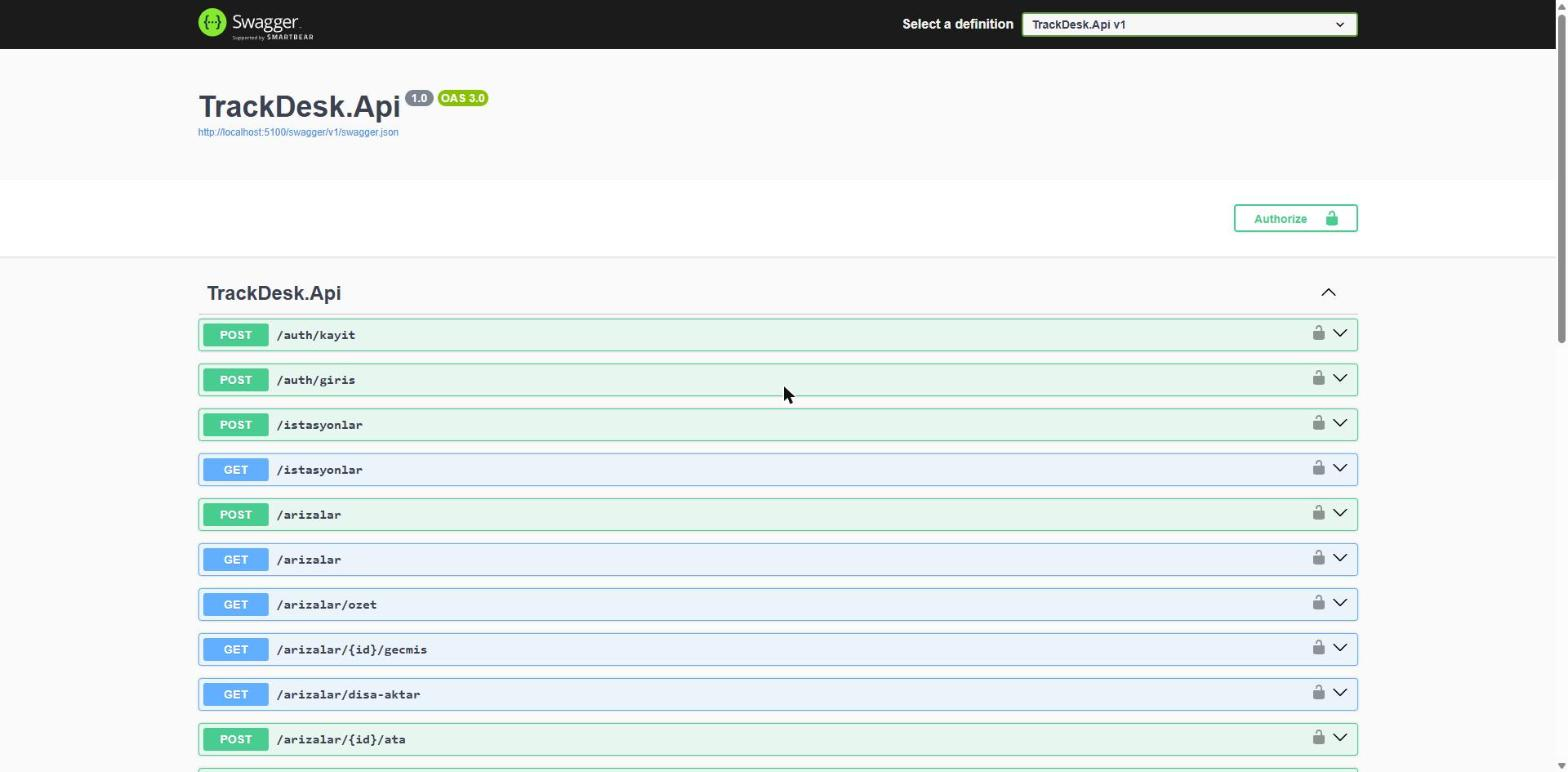
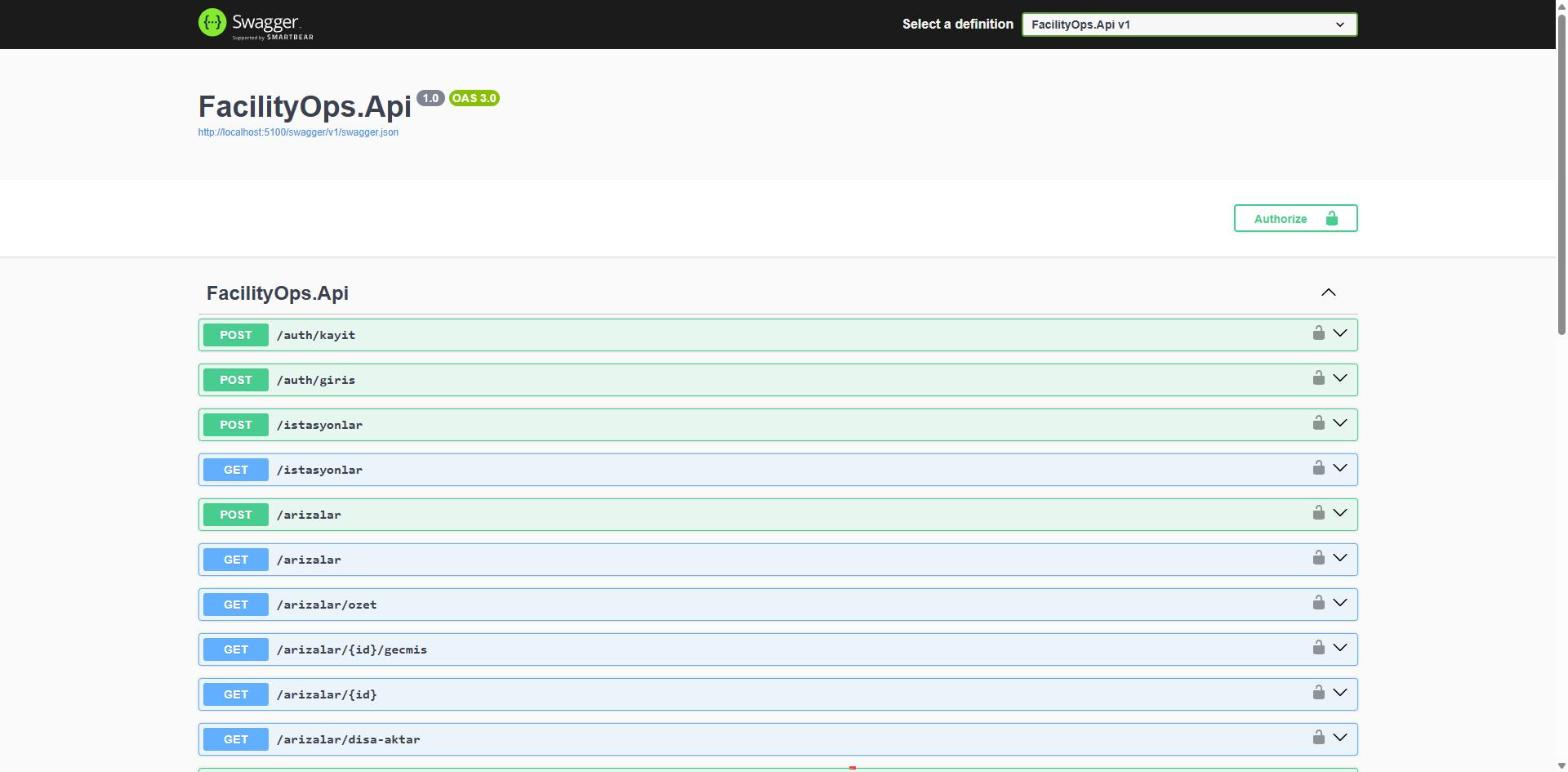
Proje adı FacilityOps olarak değiştirildi (#8)
Proje adı FacilityOps olarak değiştirildi; ad alanları, ekran görüntüleri ve README güncellendi. Filtrelerde kültürden bağımsız küçük harfe çevirme kullanıldı.

diff --git a/src/FacilityOps.Api/Data/Migrations/20261112061803_Baslangic.Designer.cs b/src/FacilityOps.Api/Data/Migrations/20261112061803_Baslangic.Designer.cs
@@ -2,22 +2,25 @@
 using System;
 using Microsoft.EntityFrameworkCore;
 using Microsoft.EntityFrameworkCore.Infrastructure;
+using Microsoft.EntityFrameworkCore.Migrations;
 using Microsoft.EntityFrameworkCore.Storage.ValueConversion;
-using TrackDesk.Api.Data;
+using FacilityOps.Api.Data;
 
 #nullable disable
 
-namespace TrackDesk.Api.Data.Migrations
+namespace FacilityOps.Api.Data.Migrations
 {
     [DbContext(typeof(AppDbContext))]
-    partial class AppDbContextModelSnapshot : ModelSnapshot
+    [Migration("20261112061803_Baslangic")]
+    partial class Baslangic
     {
-        protected override void BuildModel(ModelBuilder modelBuilder)
+        /// <inheritdoc />
+        protected override void BuildTargetModel(ModelBuilder modelBuilder)
         {
 #pragma warning disable 612, 618
             modelBuilder.HasAnnotation("ProductVersion", "8.0.11");
 
-            modelBuilder.Entity("TrackDesk.Api.Domain.ArizaGecmisi", b =>
+            modelBuilder.Entity("FacilityOps.Api.Domain.ArizaGecmisi", b =>
                 {
                     b.Property<int>("Id")
                         .ValueGeneratedOnAdd()
@@ -52,7 +55,7 @@ namespace TrackDesk.Api.Data.Migrations
                     b.ToTable("ArizaGecmisleri");
                 });
 
-            modelBuilder.Entity("TrackDesk.Api.Domain.ArizaKaydi", b =>
+            modelBuilder.Entity("FacilityOps.Api.Domain.ArizaKaydi", b =>
                 {
                     b.Property<int>("Id")
                         .ValueGeneratedOnAdd()
@@ -100,7 +103,7 @@ namespace TrackDesk.Api.Data.Migrations
                     b.ToTable("Arizalar");
                 });
 
-            modelBuilder.Entity("TrackDesk.Api.Domain.Istasyon", b =>
+            modelBuilder.Entity("FacilityOps.Api.Domain.Istasyon", b =>
                 {
                     b.Property<int>("Id")
                         .ValueGeneratedOnAdd()
@@ -121,7 +124,7 @@ namespace TrackDesk.Api.Data.Migrations
                     b.ToTable("Istasyonlar");
                 });
 
-            modelBuilder.Entity("TrackDesk.Api.Domain.Kullanici", b =>
+            modelBuilder.Entity("FacilityOps.Api.Domain.Kullanici", b =>
                 {
                     b.Property<int>("Id")
                         .ValueGeneratedOnAdd()
@@ -153,18 +156,18 @@ namespace TrackDesk.Api.Data.Migrations
                     b.ToTable("Kullanicilar");
                 });
 
-            modelBuilder.Entity("TrackDesk.Api.Domain.ArizaGecmisi", b =>
+            modelBuilder.Entity("FacilityOps.Api.Domain.ArizaGecmisi", b =>
                 {
-                    b.HasOne("TrackDesk.Api.Domain.ArizaKaydi", null)
+                    b.HasOne("FacilityOps.Api.Domain.ArizaKaydi", null)
                         .WithMany()
                         .HasForeignKey("ArizaId")
                         .OnDelete(DeleteBehavior.Cascade)
                         .IsRequired();
                 });
 
-            modelBuilder.Entity("TrackDesk.Api.Domain.ArizaKaydi", b =>
+            modelBuilder.Entity("FacilityOps.Api.Domain.ArizaKaydi", b =>
                 {
-                    b.HasOne("TrackDesk.Api.Domain.Istasyon", "Istasyon")
+                    b.HasOne("FacilityOps.Api.Domain.Istasyon", "Istasyon")
                         .WithMany("Arizalar")
                         .HasForeignKey("IstasyonId")
                         .OnDelete(DeleteBehavior.Restrict)
@@ -173,7 +176,7 @@ namespace TrackDesk.Api.Data.Migrations
                     b.Navigation("Istasyon");
                 });
 
-            modelBuilder.Entity("TrackDesk.Api.Domain.Istasyon", b =>
+            modelBuilder.Entity("FacilityOps.Api.Domain.Istasyon", b =>
                 {
                     b.Navigation("Arizalar");
                 });

diff --git a/src/FacilityOps.Api/Data/Migrations/AppDbContextModelSnapshot.cs b/src/FacilityOps.Api/Data/Migrations/AppDbContextModelSnapshot.cs
@@ -2,25 +2,22 @@
 using System;
 using Microsoft.EntityFrameworkCore;
 using Microsoft.EntityFrameworkCore.Infrastructure;
-using Microsoft.EntityFrameworkCore.Migrations;
 using Microsoft.EntityFrameworkCore.Storage.ValueConversion;
-using TrackDesk.Api.Data;
+using FacilityOps.Api.Data;
 
 #nullable disable
 
-namespace TrackDesk.Api.Data.Migrations
+namespace FacilityOps.Api.Data.Migrations
 {
     [DbContext(typeof(AppDbContext))]
-    [Migration("20261112061803_Baslangic")]
-    partial class Baslangic
+    partial class AppDbContextModelSnapshot : ModelSnapshot
     {
-        /// <inheritdoc />
-        protected override void BuildTargetModel(ModelBuilder modelBuilder)
+        protected override void BuildModel(ModelBuilder modelBuilder)
         {
 #pragma warning disable 612, 618
             modelBuilder.HasAnnotation("ProductVersion", "8.0.11");
 
-            modelBuilder.Entity("TrackDesk.Api.Domain.ArizaGecmisi", b =>
+            modelBuilder.Entity("FacilityOps.Api.Domain.ArizaGecmisi", b =>
                 {
                     b.Property<int>("Id")
                         .ValueGeneratedOnAdd()
@@ -55,7 +52,7 @@ namespace TrackDesk.Api.Data.Migrations
                     b.ToTable("ArizaGecmisleri");
                 });
 
-            modelBuilder.Entity("TrackDesk.Api.Domain.ArizaKaydi", b =>
+            modelBuilder.Entity("FacilityOps.Api.Domain.ArizaKaydi", b =>
                 {
                     b.Property<int>("Id")
                         .ValueGeneratedOnAdd()
@@ -103,7 +100,7 @@ namespace TrackDesk.Api.Data.Migrations
                     b.ToTable("Arizalar");
                 });
 
-            modelBuilder.Entity("TrackDesk.Api.Domain.Istasyon", b =>
+            modelBuilder.Entity("FacilityOps.Api.Domain.Istasyon", b =>
                 {
                     b.Property<int>("Id")
                         .ValueGeneratedOnAdd()
@@ -124,7 +121,7 @@ namespace TrackDesk.Api.Data.Migrations
                     b.ToTable("Istasyonlar");
                 });
 
-            modelBuilder.Entity("TrackDesk.Api.Domain.Kullanici", b =>
+            modelBuilder.Entity("FacilityOps.Api.Domain.Kullanici", b =>
                 {
                     b.Property<int>("Id")
                         .ValueGeneratedOnAdd()
@@ -156,18 +153,18 @@ namespace TrackDesk.Api.Data.Migrations
                     b.ToTable("Kullanicilar");
                 });
 
-            modelBuilder.Entity("TrackDesk.Api.Domain.ArizaGecmisi", b =>
+            modelBuilder.Entity("FacilityOps.Api.Domain.ArizaGecmisi", b =>
                 {
-                    b.HasOne("TrackDesk.Api.Domain.ArizaKaydi", null)
+                    b.HasOne("FacilityOps.Api.Domain.ArizaKaydi", null)
                         .WithMany()
                         .HasForeignKey("ArizaId")
                         .OnDelete(DeleteBehavior.Cascade)
                         .IsRequired();
                 });
 
-            modelBuilder.Entity("TrackDesk.Api.Domain.ArizaKaydi", b =>
+            modelBuilder.Entity("FacilityOps.Api.Domain.ArizaKaydi", b =>
                 {
-                    b.HasOne("TrackDesk.Api.Domain.Istasyon", "Istasyon")
+                    b.HasOne("FacilityOps.Api.Domain.Istasyon", "Istasyon")
                         .WithMany("Arizalar")
                         .HasForeignKey("IstasyonId")
                         .OnDelete(DeleteBehavior.Restrict)
@@ -176,7 +173,7 @@ namespace TrackDesk.Api.Data.Migrations
                     b.Navigation("Istasyon");
                 });
 
-            modelBuilder.Entity("TrackDesk.Api.Domain.Istasyon", b =>
+            modelBuilder.Entity("FacilityOps.Api.Domain.Istasyon", b =>
                 {
                     b.Navigation("Arizalar");
                 });

diff --git a/src/FacilityOps.Api/Services/ArizaService.cs b/src/FacilityOps.Api/Services/ArizaService.cs
@@ -1,9 +1,9 @@
 using System.Text;
 using Microsoft.EntityFrameworkCore;
-using TrackDesk.Api.Data;
-using TrackDesk.Api.Domain;
+using FacilityOps.Api.Data;
+using FacilityOps.Api.Domain;
 
-namespace TrackDesk.Api.Services;
+namespace FacilityOps.Api.Services;
 
 /// <summary>İş kurallarını (durum geçişleri, doğrulama, denetim kaydı) endpoint'lerden ayrı tutar; test edilebilir.</summary>
 public class ArizaService(AppDbContext db)
@@ -162,8 +162,8 @@ public class ArizaService(AppDbContext db)
                 ? sorgu.Where(a => a.Durum != ArizaDurumu.Kapandi && a.SlaSonTarih < simdi)
                 : sorgu.Where(a => a.Durum == ArizaDurumu.Kapandi || a.SlaSonTarih >= simdi);
         }
-        if (!string.IsNullOrWhiteSpace(atanan)) sorgu = sorgu.Where(a => a.AtananKisi != null && a.AtananKisi.ToLower() == atanan.Trim().ToLower());
-        if (!string.IsNullOrWhiteSpace(ara)) sorgu = sorgu.Where(a => a.Baslik.ToLower().Contains(ara.Trim().ToLower()));
+        if (!string.IsNullOrWhiteSpace(atanan)) sorgu = sorgu.Where(a => a.AtananKisi != null && a.AtananKisi.ToLower() == atanan.Trim().ToLowerInvariant());
+        if (!string.IsNullOrWhiteSpace(ara)) sorgu = sorgu.Where(a => a.Baslik.ToLower().Contains(ara.Trim().ToLowerInvariant()));
         return sorgu;
     }
 

diff --git a/src/FacilityOps.Api/Program.cs b/src/FacilityOps.Api/Program.cs
@@ -7,14 +7,14 @@ using Microsoft.AspNetCore.Mvc;
 using Microsoft.EntityFrameworkCore;
 using Microsoft.IdentityModel.Tokens;
 using Microsoft.OpenApi.Models;
-using TrackDesk.Api.Data;
-using TrackDesk.Api.Domain;
-using TrackDesk.Api.Services;
+using FacilityOps.Api.Data;
+using FacilityOps.Api.Domain;
+using FacilityOps.Api.Services;
 
 var builder = WebApplication.CreateBuilder(args);
 
 builder.Services.AddDbContext<AppDbContext>(o =>
-    o.UseSqlite(builder.Configuration.GetConnectionString("Default") ?? "Data Source=trackdesk.db"));
+    o.UseSqlite(builder.Configuration.GetConnectionString("Default") ?? "Data Source=facilityops.db"));
 builder.Services.AddScoped<ArizaService>();
 builder.Services.AddScoped<AuthService>();
 builder.Services.AddHealthChecks().AddDbContextCheck<AppDbContext>("veritabani");

diff --git a/tests/FacilityOps.Tests/ProxyHizSiniriApiTests.cs b/tests/FacilityOps.Tests/ProxyHizSiniriApiTests.cs
@@ -3,11 +3,11 @@ using System.Net.Http.Json;
 using Microsoft.AspNetCore.Hosting;
 using Microsoft.AspNetCore.Mvc.Testing;
 
-namespace TrackDesk.Tests;
+namespace FacilityOps.Tests;
 
 public class ProxyHizSiniriApiTests : IClassFixture<WebApplicationFactory<Program>>, IDisposable
 {
-    private readonly string _dbDosya = Path.Combine(Path.GetTempPath(), $"trackdesk-{Guid.NewGuid():N}.db");
+    private readonly string _dbDosya = Path.Combine(Path.GetTempPath(), $"facilityops-{Guid.NewGuid():N}.db");
     private readonly WebApplicationFactory<Program> _factory;
 
     public ProxyHizSiniriApiTests(WebApplicationFactory<Program> factory)

diff --git a/tests/FacilityOps.Tests/ArizaDetayApiTests.cs b/tests/FacilityOps.Tests/ArizaDetayApiTests.cs
@@ -5,11 +5,11 @@ using System.Text.Json;
 using Microsoft.AspNetCore.Hosting;
 using Microsoft.AspNetCore.Mvc.Testing;
 
-namespace TrackDesk.Tests;
+namespace FacilityOps.Tests;
 
 public class ArizaDetayApiTests : IClassFixture<WebApplicationFactory<Program>>, IDisposable
 {
-    private readonly string _dbDosya = Path.Combine(Path.GetTempPath(), $"trackdesk-{Guid.NewGuid():N}.db");
+    private readonly string _dbDosya = Path.Combine(Path.GetTempPath(), $"facilityops-{Guid.NewGuid():N}.db");
     private readonly WebApplicationFactory<Program> _factory;
 
     public ArizaDetayApiTests(WebApplicationFactory<Program> factory)

diff --git a/tests/FacilityOps.Tests/ApiTests.cs b/tests/FacilityOps.Tests/ApiTests.cs
@@ -4,11 +4,11 @@ using System.Net.Http.Json;
 using Microsoft.AspNetCore.Hosting;
 using Microsoft.AspNetCore.Mvc.Testing;
 
-namespace TrackDesk.Tests;
+namespace FacilityOps.Tests;
 
 public class ApiTests : IClassFixture<WebApplicationFactory<Program>>, IDisposable
 {
-    private readonly string _dbDosya = Path.Combine(Path.GetTempPath(), $"trackdesk-{Guid.NewGuid():N}.db");
+    private readonly string _dbDosya = Path.Combine(Path.GetTempPath(), $"facilityops-{Guid.NewGuid():N}.db");
     private readonly WebApplicationFactory<Program> _factory;
 
     public ApiTests(WebApplicationFactory<Program> factory)

diff --git a/src/FacilityOps.Api/Services/AuthService.cs b/src/FacilityOps.Api/Services/AuthService.cs
@@ -4,10 +4,10 @@ using System.Security.Cryptography;
 using System.Text;
 using Microsoft.EntityFrameworkCore;
 using Microsoft.IdentityModel.Tokens;
-using TrackDesk.Api.Data;
-using TrackDesk.Api.Domain;
+using FacilityOps.Api.Data;
+using FacilityOps.Api.Domain;
 
-namespace TrackDesk.Api.Services;
+namespace FacilityOps.Api.Services;
 
 public class AuthService(AppDbContext db, IConfiguration config)
 {

diff --git a/tests/FacilityOps.Tests/ArizaServiceTests.cs b/tests/FacilityOps.Tests/ArizaServiceTests.cs
@@ -1,11 +1,11 @@
 using System.Text;
 using Microsoft.Data.Sqlite;
 using Microsoft.EntityFrameworkCore;
-using TrackDesk.Api.Data;
-using TrackDesk.Api.Domain;
-using TrackDesk.Api.Services;
+using FacilityOps.Api.Data;
+using FacilityOps.Api.Domain;
+using FacilityOps.Api.Services;
 
-namespace TrackDesk.Tests;
+namespace FacilityOps.Tests;
 
 public class ArizaServiceTests : IDisposable
 {

diff --git a/tests/FacilityOps.Tests/ArizaAtamaDogrulamaTests.cs b/tests/FacilityOps.Tests/ArizaAtamaDogrulamaTests.cs
@@ -1,10 +1,10 @@
 using Microsoft.Data.Sqlite;
 using Microsoft.EntityFrameworkCore;
-using TrackDesk.Api.Data;
-using TrackDesk.Api.Domain;
-using TrackDesk.Api.Services;
+using FacilityOps.Api.Data;
+using FacilityOps.Api.Domain;
+using FacilityOps.Api.Services;
 
-namespace TrackDesk.Tests;
+namespace FacilityOps.Tests;
 
 public class ArizaAtamaDogrulamaTests : IDisposable
 {

diff --git a/tests/FacilityOps.Tests/ArizaFiltreTests.cs b/tests/FacilityOps.Tests/ArizaFiltreTests.cs
@@ -1,10 +1,10 @@
 using Microsoft.Data.Sqlite;
 using Microsoft.EntityFrameworkCore;
-using TrackDesk.Api.Data;
-using TrackDesk.Api.Domain;
-using TrackDesk.Api.Services;
+using FacilityOps.Api.Data;
+using FacilityOps.Api.Domain;
+using FacilityOps.Api.Services;
 
-namespace TrackDesk.Tests;
+namespace FacilityOps.Tests;
 
 public class ArizaFiltreTests : IDisposable
 {

diff --git a/src/FacilityOps.Api/Data/AppDbContext.cs b/src/FacilityOps.Api/Data/AppDbContext.cs
@@ -1,7 +1,7 @@
-using TrackDesk.Api.Domain;
+using FacilityOps.Api.Domain;
 using Microsoft.EntityFrameworkCore;
 
-namespace TrackDesk.Api.Data;
+namespace FacilityOps.Api.Data;
 
 public class AppDbContext(DbContextOptions<AppDbContext> options) : DbContext(options)
 {
